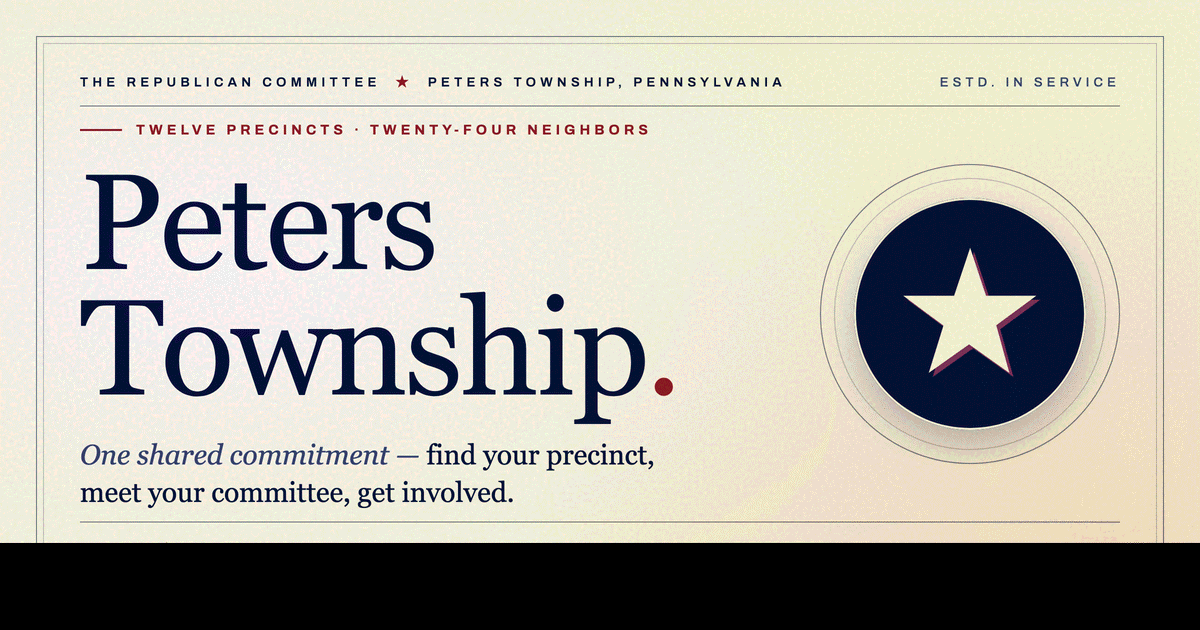
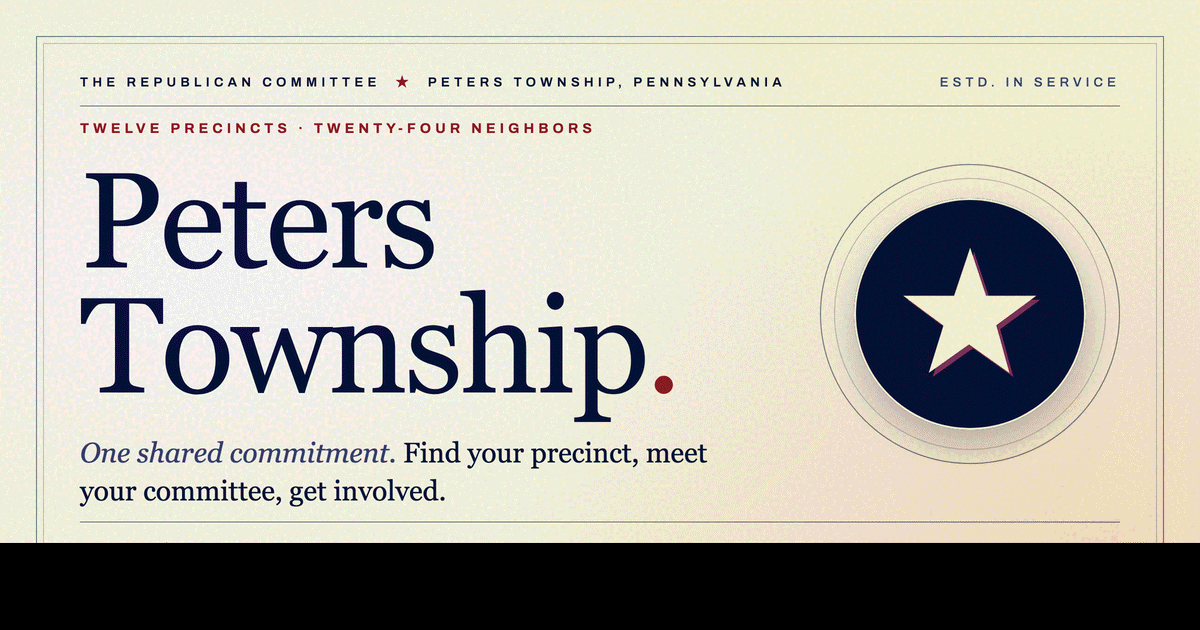
Remove em dashes from social teaser
Replace the em dash in the sub-line with a period + capitalized "Find",
and drop the decorative red bar before the kicker that read as a red
em dash at preview size.

diff --git a/.social-card.html b/.social-card.html
@@ -224,9 +224,9 @@
     </div>
 
     <div class="title">
-      <div class="kicker"><span class="bar"></span> Twelve Precincts &middot; Twenty-Four Neighbors</div>
+      <div class="kicker">Twelve Precincts &middot; Twenty-Four Neighbors</div>
       <h1>Peters<br>Township<span class="italic">.</span></h1>
-      <div class="sub">One shared commitment &mdash; <em>find your precinct, meet your committee, get involved.</em></div>
+      <div class="sub">One shared commitment. <em>Find your precinct, meet your committee, get involved.</em></div>
     </div>
 
     <div class="seal" aria-hidden="true">
